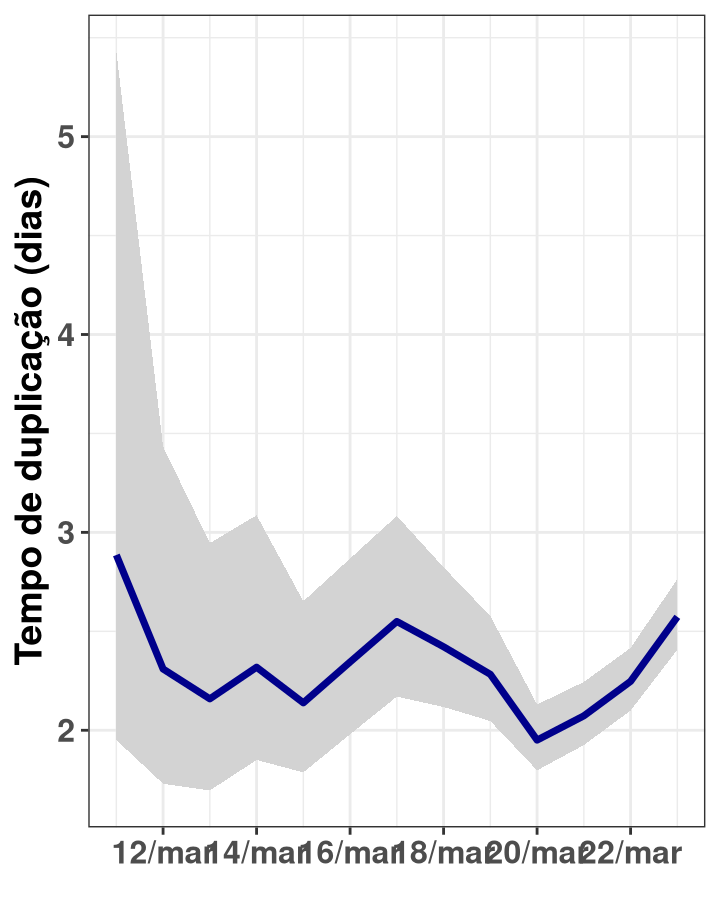
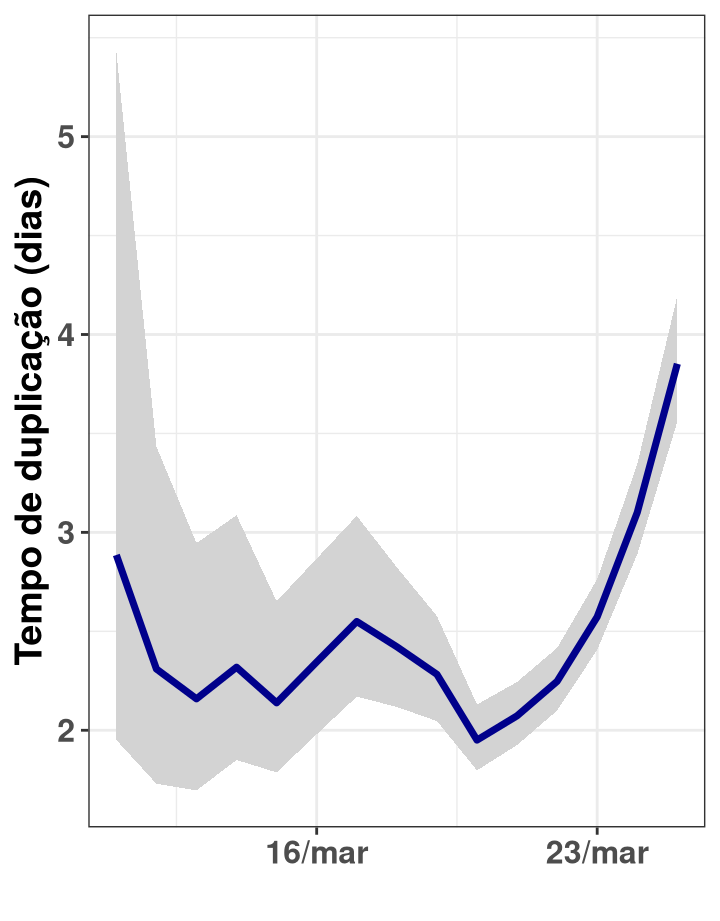
Updating pages with new data

diff --git a/projecao.html b/projecao.html
@@ -781,7 +781,7 @@ body {
 <span class="navbar-brand">
   Observatório COVID-19 BR | Projeção
   <span class="navbar-author">
-      26 de março de 2020, 00:52
+      26 de março de 2020, 00:59
       </span>
 </span>
 
@@ -2566,10 +2566,10 @@ window.FlexDashboardComponents.push({
 <div class="knitr-options" data-fig-width="768" data-fig-height="576">
 
 </div>
-<div id="htmlwidget-e58234db638d0c3ee778" style="width:768px;height:576px;" class="plotly html-widget"></div>
-<script type="application/json" data-for="htmlwidget-e58234db638d0c3ee778">{"x":{"data":[{"x":[18317,18318,18319,18320,18321,18322,18323,18324,18325,18326,18327,18328,18329,18330,18331,18332,18333,18334,18335,18336,18337,18338,18339,18340,18341,18342,18343,18344,18345,18346,18347,18348,18349,18349,18349,18348,18347,18346,18345,18344,18343,18342,18341,18340,18339,18338,18337,18336,18335,18334,18333,18332,18331,18330,18329,18328,18327,18326,18325,18324,18323,18322,18321,18320,18319,18318,18317,18317],"y":[null,null,null,null,null,null,null,null,null,null,null,null,null,null,null,null,null,null,null,null,null,null,null,null,null,null,null,null,3.38231706066163,3.49181190575979,3.60099890504375,3.71003269630413,3.81898025560582,3.81898025560582,3.92803789518479,3.80301631718518,3.67808097114425,3.5532988331269,3.42882454092376,null,null,null,null,null,null,null,null,null,null,null,null,null,null,null,null,null,null,null,null,null,null,null,null,null,null,null,null,null],"text":"","type":"scatter","mode":"lines","line":{"width":1.88976377952756,"color":"transparent","dash":"solid"},"fill":"toself","fillcolor":"rgba(211,211,211,1)","hoveron":"points","showlegend":false,"xaxis":"x","yaxis":"y","hoverinfo":"text","frame":null},{"x":[18317,18318,18319,18320,18321,18322,18323,18324,18325,18326,18327,18328,18329,18330,18331,18332,18333,18334,18335,18336,18337,18338,18339,18340,18341,18342,18343,18344,18345,18346,18347,18348,18349],"y":[0,0,0,0,0.301029995663981,0.301029995663981,0.301029995663981,0.301029995663981,0.602059991327962,0.845098040014257,1.11394335230684,1.27875360095283,1.39794000867204,1.47712125471966,1.53147891704226,1.7160033436348,1.88649072517248,1.99122607569249,2.08278537031645,2.30102999566398,2.36921585741014,2.46239799789896,2.63144376901317,2.79309160017658,2.95616843047536,3.05230909964732,3.18920948958231,3.27669152884504,3.4055708007927,3.52255536944335,3.639539938094,3.75652450674465,3.87350907539531],"text":"","type":"scatter","mode":"lines","line":{"width":1.88976377952756,"color":"rgba(0,0,0,1)","dash":"solid"},"hoveron":"points","showlegend":false,"xaxis":"x","yaxis":"y","hoverinfo":"text","frame":null},{"x":[18317,18318,18319,18320,18321,18322,18323,18324,18325,18326,18327,18328,18329,18330,18331,18332,18333,18334,18335,18336,18337,18338,18339,18340,18341,18342,18343,18344,18345],"y":[0,0,0,0,0.301029995663981,0.301029995663981,0.301029995663981,0.301029995663981,0.602059991327962,0.845098040014257,1.11394335230684,1.27875360095283,1.39794000867204,1.47712125471966,1.53147891704226,1.7160033436348,1.88649072517248,1.99122607569249,2.08278537031645,2.30102999566398,2.36921585741014,2.46239799789896,2.63144376901317,2.79309160017658,2.95616843047536,3.05230909964732,3.18920948958231,3.27669152884504,3.4055708007927],"text":["Data: 2020-02-25 <br /> Casos: 1","Data: 2020-02-26 <br /> Casos: 1","Data: 2020-02-27 <br /> Casos: 1","Data: 2020-02-28 <br /> Casos: 1","Data: 2020-02-29 <br /> Casos: 2","Data: 2020-03-01 <br /> Casos: 2","Data: 2020-03-02 <br /> Casos: 2","Data: 2020-03-03 <br /> Casos: 2","Data: 2020-03-04 <br /> Casos: 4","Data: 2020-03-05 <br /> Casos: 7","Data: 2020-03-06 <br /> Casos: 13","Data: 2020-03-07 <br /> Casos: 19","Data: 2020-03-08 <br /> Casos: 25","Data: 2020-03-09 <br /> Casos: 30","Data: 2020-03-10 <br /> Casos: 34","Data: 2020-03-11 <br /> Casos: 52","Data: 2020-03-12 <br /> Casos: 77","Data: 2020-03-13 <br /> Casos: 98","Data: 2020-03-14 <br /> Casos: 121","Data: 2020-03-15 <br /> Casos: 200","Data: 2020-03-16 <br /> Casos: 234","Data: 2020-03-17 <br /> Casos: 290","Data: 2020-03-18 <br /> Casos: 428","Data: 2020-03-19 <br /> Casos: 621","Data: 2020-03-20 <br /> Casos: 904","Data: 2020-03-21 <br /> Casos: 1128","Data: 2020-03-22 <br /> Casos: 1546","Data: 2020-03-23 <br /> Casos: 1891","Data: 2020-03-24 <br /> Casos: 2544"],"type":"scatter","mode":"markers","marker":{"autocolorscale":false,"color":"rgba(0,0,0,1)","opacity":1,"size":7.55905511811024,"symbol":"circle","line":{"width":1.88976377952756,"color":"rgba(0,0,0,1)"}},"hoveron":"points","showlegend":false,"xaxis":"x","yaxis":"y","hoverinfo":"text","frame":null},{"x":[18345,18346,18347,18348,18349],"y":[3.4055708007927,3.52255536944335,3.639539938094,3.75652450674465,3.87350907539531],"text":["Data: 2020-03-24 <br /> Casos previstos: 2544 <br /> IC min: 2412 <br /> IC max: 2684","Data: 2020-03-25 <br /> Casos previstos: 3331 <br /> IC min: 3103 <br /> IC max: 3575","Data: 2020-03-26 <br /> Casos previstos: 4361 <br /> IC min: 3990 <br /> IC max: 4765","Data: 2020-03-27 <br /> Casos previstos: 5709 <br /> IC min: 5129 <br /> IC max: 6354","Data: 2020-03-28 <br /> Casos previstos: 7473 <br /> IC min: 6591 <br /> IC max: 8473"],"type":"scatter","mode":"markers","marker":{"autocolorscale":false,"color":"rgba(230,97,1,1)","opacity":1,"size":7.55905511811024,"symbol":"circle","line":{"width":1.88976377952756,"color":"rgba(230,97,1,1)"}},"hoveron":"points","showlegend":false,"xaxis":"x","yaxis":"y","hoverinfo":"text","frame":null}],"layout":{"margin":{"t":43.2754946727549,"r":7.30593607305936,"b":29.3344402933444,"l":69.4063926940639},"plot_bgcolor":"rgba(255,255,255,1)","paper_bgcolor":"rgba(255,255,255,1)","font":{"color":"rgba(0,0,0,1)","family":"","size":14.6118721461187},"title":{"text":"Número de casos notificados em escala logarítimica","font":{"color":"rgba(0,0,0,1)","family":"","size":17.5342465753425},"x":0,"xref":"paper"},"xaxis":{"domain":[0,1],"automargin":true,"type":"linear","autorange":false,"range":[18315.4,18350.6],"tickmode":"array","ticktext":["24/fev","02/mar","09/mar","16/mar","23/mar"],"tickvals":[18316,18323,18330,18337,18344],"categoryorder":"array","categoryarray":["24/fev","02/mar","09/mar","16/mar","23/mar"],"nticks":null,"ticks":"outside","tickcolor":"rgba(51,51,51,1)","ticklen":3.65296803652968,"tickwidth":0.66417600664176,"showticklabels":true,"tickfont":{"color":"rgba(77,77,77,1)","family":"","size":15.9402241594022},"tickangle":-0,"showline":false,"linecolor":null,"linewidth":0,"showgrid":true,"gridcolor":"rgba(235,235,235,1)","gridwidth":0.66417600664176,"zeroline":false,"anchor":"y","title":{"text":"","font":{"color":"rgba(0,0,0,1)","family":"","size":14.6118721461187}},"hoverformat":".2f"},"yaxis":{"domain":[0,1],"automargin":true,"type":"linear","autorange":false,"range":[-0.196401894759239,4.12443978994403],"tickmode":"array","ticktext":["1","10","100","1000","10000"],"tickvals":[0,1,2,3,4],"categoryorder":"array","categoryarray":["1","10","100","1000","10000"],"nticks":null,"ticks":"outside","tickcolor":"rgba(51,51,51,1)","ticklen":3.65296803652968,"tickwidth":0.66417600664176,"showticklabels":true,"tickfont":{"color":"rgba(77,77,77,1)","family":"","size":15.9402241594022},"tickangle":-0,"showline":false,"linecolor":null,"linewidth":0,"showgrid":true,"gridcolor":"rgba(235,235,235,1)","gridwidth":0.66417600664176,"zeroline":false,"anchor":"x","title":{"text":"<b> Número de casos <\/b>","font":{"color":"rgba(0,0,0,1)","family":"","size":18.5969281859693}},"hoverformat":".2f"},"shapes":[{"type":"rect","fillcolor":"transparent","line":{"color":"rgba(51,51,51,1)","width":0.66417600664176,"linetype":"solid"},"yref":"paper","xref":"paper","x0":0,"x1":1,"y0":0,"y1":1}],"showlegend":false,"legend":{"bgcolor":"rgba(255,255,255,1)","bordercolor":"transparent","borderwidth":1.88976377952756,"font":{"color":"rgba(0,0,0,1)","family":"","size":11.689497716895}},"hovermode":"closest","barmode":"relative"},"config":{"doubleClick":"reset","showSendToCloud":false},"source":"A","attrs":{"4a502cf609ed":{"x":{},"y":{},"ymin":{},"ymax":{},"type":"scatter"},"4a5063494011":{"x":{},"y":{},"ymin":{},"ymax":{}},"4a505a065c99":{"text":{},"x":{},"y":{},"ymin":{},"ymax":{}},"4a50906c4d6":{"text":{},"x":{},"y":{},"ymin":{},"ymax":{}}},"cur_data":"4a502cf609ed","visdat":{"4a502cf609ed":["function (y) ","x"],"4a5063494011":["function (y) ","x"],"4a505a065c99":["function (y) ","x"],"4a50906c4d6":["function (y) ","x"]},"highlight":{"on":"plotly_click","persistent":false,"dynamic":false,"selectize":false,"opacityDim":0.2,"selected":{"opacity":1},"debounce":0},"shinyEvents":["plotly_hover","plotly_click","plotly_selected","plotly_relayout","plotly_brushed","plotly_brushing","plotly_clickannotation","plotly_doubleclick","plotly_deselect","plotly_afterplot","plotly_sunburstclick"],"base_url":"https://plot.ly"},"evals":[],"jsHooks":[]}</script>
+<div id="htmlwidget-272cbdfa5663bd501cdc" style="width:768px;height:576px;" class="plotly html-widget"></div>
+<script type="application/json" data-for="htmlwidget-272cbdfa5663bd501cdc">{"x":{"data":[{"x":[18317,18318,18319,18320,18321,18322,18323,18324,18325,18326,18327,18328,18329,18330,18331,18332,18333,18334,18335,18336,18337,18338,18339,18340,18341,18342,18343,18344,18345,18346,18347,18348,18349,18350,18351,18351,18351,18350,18349,18348,18347,18346,18345,18344,18343,18342,18341,18340,18339,18338,18337,18336,18335,18334,18333,18332,18331,18330,18329,18328,18327,18326,18325,18324,18323,18322,18321,18320,18319,18318,18317,18317],"y":[null,null,null,null,null,null,null,null,null,null,null,null,null,null,null,null,null,null,null,null,null,null,null,null,null,null,null,null,null,null,3.4657272491545,3.53790170228794,3.60985230354139,3.6816884031572,3.75345882546689,3.75345882546689,3.84222208951999,3.75769693900521,3.67323746579654,3.58889249422552,3.50477137453449,null,null,null,null,null,null,null,null,null,null,null,null,null,null,null,null,null,null,null,null,null,null,null,null,null,null,null,null,null,null,null],"text":"","type":"scatter","mode":"lines","line":{"width":1.88976377952756,"color":"transparent","dash":"solid"},"fill":"toself","fillcolor":"rgba(211,211,211,1)","hoveron":"points","showlegend":false,"xaxis":"x","yaxis":"y","hoverinfo":"text","frame":null},{"x":[18317,18318,18319,18320,18321,18322,18323,18324,18325,18326,18327,18328,18329,18330,18331,18332,18333,18334,18335,18336,18337,18338,18339,18340,18341,18342,18343,18344,18345,18346,18347,18348,18349,18350,18351],"y":[0,0,0,0,0.301029995663981,0.301029995663981,0.301029995663981,0.301029995663981,0.602059991327962,0.845098040014257,1.11394335230684,1.27875360095283,1.39794000867204,1.47712125471966,1.53147891704226,1.7160033436348,1.88649072517248,1.99122607569249,2.08278537031645,2.30102999566398,2.36921585741014,2.46239799789896,2.63144376901317,2.79309160017658,2.95616843047536,3.05230909964732,3.18920948958231,3.27669152884504,3.34262004255335,3.38614210893082,3.4852493118445,3.56339709825673,3.64154488466897,3.71969267108121,3.79784045749344],"text":"","type":"scatter","mode":"lines","line":{"width":1.88976377952756,"color":"rgba(0,0,0,1)","dash":"solid"},"hoveron":"points","showlegend":false,"xaxis":"x","yaxis":"y","hoverinfo":"text","frame":null},{"x":[18317,18318,18319,18320,18321,18322,18323,18324,18325,18326,18327,18328,18329,18330,18331,18332,18333,18334,18335,18336,18337,18338,18339,18340,18341,18342,18343,18344,18345,18346,18347],"y":[0,0,0,0,0.301029995663981,0.301029995663981,0.301029995663981,0.301029995663981,0.602059991327962,0.845098040014257,1.11394335230684,1.27875360095283,1.39794000867204,1.47712125471966,1.53147891704226,1.7160033436348,1.88649072517248,1.99122607569249,2.08278537031645,2.30102999566398,2.36921585741014,2.46239799789896,2.63144376901317,2.79309160017658,2.95616843047536,3.05230909964732,3.18920948958231,3.27669152884504,3.34262004255335,3.38614210893082,3.4852493118445],"text":["Data: 2020-02-25 <br /> Casos: 1","Data: 2020-02-26 <br /> Casos: 1","Data: 2020-02-27 <br /> Casos: 1","Data: 2020-02-28 <br /> Casos: 1","Data: 2020-02-29 <br /> Casos: 2","Data: 2020-03-01 <br /> Casos: 2","Data: 2020-03-02 <br /> Casos: 2","Data: 2020-03-03 <br /> Casos: 2","Data: 2020-03-04 <br /> Casos: 4","Data: 2020-03-05 <br /> Casos: 7","Data: 2020-03-06 <br /> Casos: 13","Data: 2020-03-07 <br /> Casos: 19","Data: 2020-03-08 <br /> Casos: 25","Data: 2020-03-09 <br /> Casos: 30","Data: 2020-03-10 <br /> Casos: 34","Data: 2020-03-11 <br /> Casos: 52","Data: 2020-03-12 <br /> Casos: 77","Data: 2020-03-13 <br /> Casos: 98","Data: 2020-03-14 <br /> Casos: 121","Data: 2020-03-15 <br /> Casos: 200","Data: 2020-03-16 <br /> Casos: 234","Data: 2020-03-17 <br /> Casos: 290","Data: 2020-03-18 <br /> Casos: 428","Data: 2020-03-19 <br /> Casos: 621","Data: 2020-03-20 <br /> Casos: 904","Data: 2020-03-21 <br /> Casos: 1128","Data: 2020-03-22 <br /> Casos: 1546","Data: 2020-03-23 <br /> Casos: 1891","Data: 2020-03-24 <br /> Casos: 2201","Data: 2020-03-25 <br /> Casos: 2433","Data: 2020-03-26 <br /> Casos: 3057"],"type":"scatter","mode":"markers","marker":{"autocolorscale":false,"color":"rgba(0,0,0,1)","opacity":1,"size":7.55905511811024,"symbol":"circle","line":{"width":1.88976377952756,"color":"rgba(0,0,0,1)"}},"hoveron":"points","showlegend":false,"xaxis":"x","yaxis":"y","hoverinfo":"text","frame":null},{"x":[18347,18348,18349,18350,18351],"y":[3.4852493118445,3.56339709825673,3.64154488466897,3.71969267108121,3.79784045749344],"text":["Data: 2020-03-26 <br /> Casos previstos: 3057 <br /> IC min: 2922 <br /> IC max: 3197","Data: 2020-03-27 <br /> Casos previstos: 3659 <br /> IC min: 3451 <br /> IC max: 3881","Data: 2020-03-28 <br /> Casos previstos: 4381 <br /> IC min: 4072 <br /> IC max: 4712","Data: 2020-03-29 <br /> Casos previstos: 5244 <br /> IC min: 4805 <br /> IC max: 5724","Data: 2020-03-30 <br /> Casos previstos: 6278 <br /> IC min: 5668 <br /> IC max: 6954"],"type":"scatter","mode":"markers","marker":{"autocolorscale":false,"color":"rgba(230,97,1,1)","opacity":1,"size":7.55905511811024,"symbol":"circle","line":{"width":1.88976377952756,"color":"rgba(230,97,1,1)"}},"hoveron":"points","showlegend":false,"xaxis":"x","yaxis":"y","hoverinfo":"text","frame":null}],"layout":{"margin":{"t":43.2754946727549,"r":7.30593607305936,"b":29.3344402933444,"l":69.4063926940639},"plot_bgcolor":"rgba(255,255,255,1)","paper_bgcolor":"rgba(255,255,255,1)","font":{"color":"rgba(0,0,0,1)","family":"","size":14.6118721461187},"title":{"text":"Número de casos notificados em escala logarítimica","font":{"color":"rgba(0,0,0,1)","family":"","size":17.5342465753425},"x":0,"xref":"paper"},"xaxis":{"domain":[0,1],"automargin":true,"type":"linear","autorange":false,"range":[18315.3,18352.7],"tickmode":"array","ticktext":["24/fev","02/mar","09/mar","16/mar","23/mar","30/mar"],"tickvals":[18316,18323,18330,18337,18344,18351],"categoryorder":"array","categoryarray":["24/fev","02/mar","09/mar","16/mar","23/mar","30/mar"],"nticks":null,"ticks":"outside","tickcolor":"rgba(51,51,51,1)","ticklen":3.65296803652968,"tickwidth":0.66417600664176,"showticklabels":true,"tickfont":{"color":"rgba(77,77,77,1)","family":"","size":15.9402241594022},"tickangle":-0,"showline":false,"linecolor":null,"linewidth":0,"showgrid":true,"gridcolor":"rgba(235,235,235,1)","gridwidth":0.66417600664176,"zeroline":false,"anchor":"y","title":{"text":"","font":{"color":"rgba(0,0,0,1)","family":"","size":14.6118721461187}},"hoverformat":".2f"},"yaxis":{"domain":[0,1],"automargin":true,"type":"linear","autorange":false,"range":[-0.192111104476,4.03433319399599],"tickmode":"array","ticktext":["1","10","100","1000","10000"],"tickvals":[0,1,2,3,4],"categoryorder":"array","categoryarray":["1","10","100","1000","10000"],"nticks":null,"ticks":"outside","tickcolor":"rgba(51,51,51,1)","ticklen":3.65296803652968,"tickwidth":0.66417600664176,"showticklabels":true,"tickfont":{"color":"rgba(77,77,77,1)","family":"","size":15.9402241594022},"tickangle":-0,"showline":false,"linecolor":null,"linewidth":0,"showgrid":true,"gridcolor":"rgba(235,235,235,1)","gridwidth":0.66417600664176,"zeroline":false,"anchor":"x","title":{"text":"<b> Número de casos <\/b>","font":{"color":"rgba(0,0,0,1)","family":"","size":18.5969281859693}},"hoverformat":".2f"},"shapes":[{"type":"rect","fillcolor":"transparent","line":{"color":"rgba(51,51,51,1)","width":0.66417600664176,"linetype":"solid"},"yref":"paper","xref":"paper","x0":0,"x1":1,"y0":0,"y1":1}],"showlegend":false,"legend":{"bgcolor":"rgba(255,255,255,1)","bordercolor":"transparent","borderwidth":1.88976377952756,"font":{"color":"rgba(0,0,0,1)","family":"","size":11.689497716895}},"hovermode":"closest","barmode":"relative"},"config":{"doubleClick":"reset","showSendToCloud":false},"source":"A","attrs":{"56f765d3944c":{"x":{},"y":{},"ymin":{},"ymax":{},"type":"scatter"},"56f740c6e697":{"x":{},"y":{},"ymin":{},"ymax":{}},"56f77ce22825":{"text":{},"x":{},"y":{},"ymin":{},"ymax":{}},"56f769e915fc":{"text":{},"x":{},"y":{},"ymin":{},"ymax":{}}},"cur_data":"56f765d3944c","visdat":{"56f765d3944c":["function (y) ","x"],"56f740c6e697":["function (y) ","x"],"56f77ce22825":["function (y) ","x"],"56f769e915fc":["function (y) ","x"]},"highlight":{"on":"plotly_click","persistent":false,"dynamic":false,"selectize":false,"opacityDim":0.2,"selected":{"opacity":1},"debounce":0},"shinyEvents":["plotly_hover","plotly_click","plotly_selected","plotly_relayout","plotly_brushed","plotly_brushing","plotly_clickannotation","plotly_doubleclick","plotly_deselect","plotly_afterplot","plotly_sunburstclick"],"base_url":"https://plot.ly"},"evals":[],"jsHooks":[]}</script>
 <blockquote>
-<p>Pontos pretos indicam o número de casos confirmados no Brasil por dia. <strong>Pontos em laranja são a previsão para os próximos 5 dias (entre 6591 e 8473 casos em 28/03/2020 )</strong>, se a taxa de crescimento continuar a mesma dos últimos 5 dias. Em cinza é o intervalo de confiança dessa previsão.</p>
+<p>Pontos pretos indicam o número de casos confirmados no Brasil por dia. <strong>Pontos em laranja são a previsão para os próximos 5 dias (entre 5668 e 6953 casos em 30/03/2020 )</strong>, se a taxa de crescimento continuar a mesma dos últimos 5 dias. Em cinza é o intervalo de confiança dessa previsão.</p>
 </blockquote>
 </div>
 <div id="por-que-só-5-dias" class="section level3">

diff --git a/informacoes.html b/informacoes.html
@@ -24,6 +24,7 @@ window.FlexDashboardComponents = [];
 <script id="flexdashboard-navbar" type="application/json">
 [{"title":"Início","href":"index.html","align":"left"},{"title":"+Info","href":"informacoes.html","align":"left"},{"title":"Fontes","href":"fontes.html","align":"left"},{"title":"Sobre","href":"sobre.html","align":"left"},{"icon":"fa-share-alt","items":[{"title":"Twitter","icon":"fa-twitter"},{"title":"Facebook","icon":"fa-facebook"},{"title":"Google+","icon":"fa-google-plus"},{"title":"LinkedIn","icon":"fa-linkedin"},{"title":"Pinterest","icon":"fa-pinterest"}]},{"title":"Source Code","icon":"fa-github","href":"https://github.com/covid19br/covid19br.github.io","align":"right"}]
 </script>
+<script src="libs/header-attrs-2.1/header-attrs.js"></script>
 <script src="libs/jquery-1.11.3/jquery.min.js"></script>
 <meta name="viewport" content="width=device-width, initial-scale=1" />
 <link href="libs/bootstrap-3.3.5/css/cosmo.min.css" rel="stylesheet" />
@@ -818,8 +819,8 @@ body {
 </div><!--/.container-->
 </div><!--/.navbar-->
 
-<img class="mobile-figure" data-mobile-figure-id=fig1 src="/home/paulo/work/pesquisa/colaboracoes/ift/corona/covid19br.github.io/informacoes_files/figure-html/exemplo_crescimento_exponencial-1.mb.png" />
-<img class="mobile-figure" data-mobile-figure-id=fig2 src="/home/paulo/work/pesquisa/colaboracoes/ift/corona/covid19br.github.io/informacoes_files/figure-html/estimativa_crescimento_exponencial-1.mb.png" />
+<img class="mobile-figure" data-mobile-figure-id=fig1 src="informacoes_files/figure-html/exemplo_crescimento_exponencial-1.mb.png" />
+<img class="mobile-figure" data-mobile-figure-id=fig2 src="informacoes_files/figure-html/estimativa_crescimento_exponencial-1.mb.png" />
 <script type="text/javascript">
 
 

diff --git a/fontes.html b/fontes.html
@@ -24,6 +24,7 @@ window.FlexDashboardComponents = [];
 <script id="flexdashboard-navbar" type="application/json">
 [{"title":"Início","href":"index.html","align":"left"},{"title":"+Info","href":"informacoes.html","align":"left"},{"title":"Fontes","href":"fontes.html","align":"left"},{"title":"Sobre","href":"sobre.html","align":"left"},{"icon":"fa-share-alt","items":[{"title":"Twitter","icon":"fa-twitter"},{"title":"Facebook","icon":"fa-facebook"},{"title":"Google+","icon":"fa-google-plus"},{"title":"LinkedIn","icon":"fa-linkedin"},{"title":"Pinterest","icon":"fa-pinterest"}]},{"title":"Source Code","icon":"fa-github","href":"https://github.com/covid19br/covid19br.github.io","align":"right"}]
 </script>
+<script src="libs/header-attrs-2.1/header-attrs.js"></script>
 <script src="libs/jquery-1.11.3/jquery.min.js"></script>
 <meta name="viewport" content="width=device-width, initial-scale=1" />
 <link href="libs/bootstrap-3.3.5/css/cosmo.min.css" rel="stylesheet" />

diff --git a/sobre.html b/sobre.html
@@ -24,6 +24,7 @@ window.FlexDashboardComponents = [];
 <script id="flexdashboard-navbar" type="application/json">
 [{"title":"Início","href":"index.html","align":"left"},{"title":"+Info","href":"informacoes.html","align":"left"},{"title":"Fontes","href":"fontes.html","align":"left"},{"title":"Sobre","href":"sobre.html","align":"left"},{"icon":"fa-share-alt","items":[{"title":"Twitter","icon":"fa-twitter"},{"title":"Facebook","icon":"fa-facebook"},{"title":"Google+","icon":"fa-google-plus"},{"title":"LinkedIn","icon":"fa-linkedin"},{"title":"Pinterest","icon":"fa-pinterest"}]},{"title":"Source Code","icon":"fa-github","href":"https://github.com/covid19br/covid19br.github.io","align":"right"}]
 </script>
+<script src="libs/header-attrs-2.1/header-attrs.js"></script>
 <script src="libs/jquery-1.11.3/jquery.min.js"></script>
 <meta name="viewport" content="width=device-width, initial-scale=1" />
 <link href="libs/bootstrap-3.3.5/css/cosmo.min.css" rel="stylesheet" />

diff --git a/index.html b/index.html
@@ -784,7 +784,7 @@ html, body {
 <span class="navbar-brand">
   Observatório COVID-19 BR
   <span class="navbar-author">
-      26 de março de 2020, 00:42
+      26 de março de 2020, 00:59
       </span>
 </span>
 
